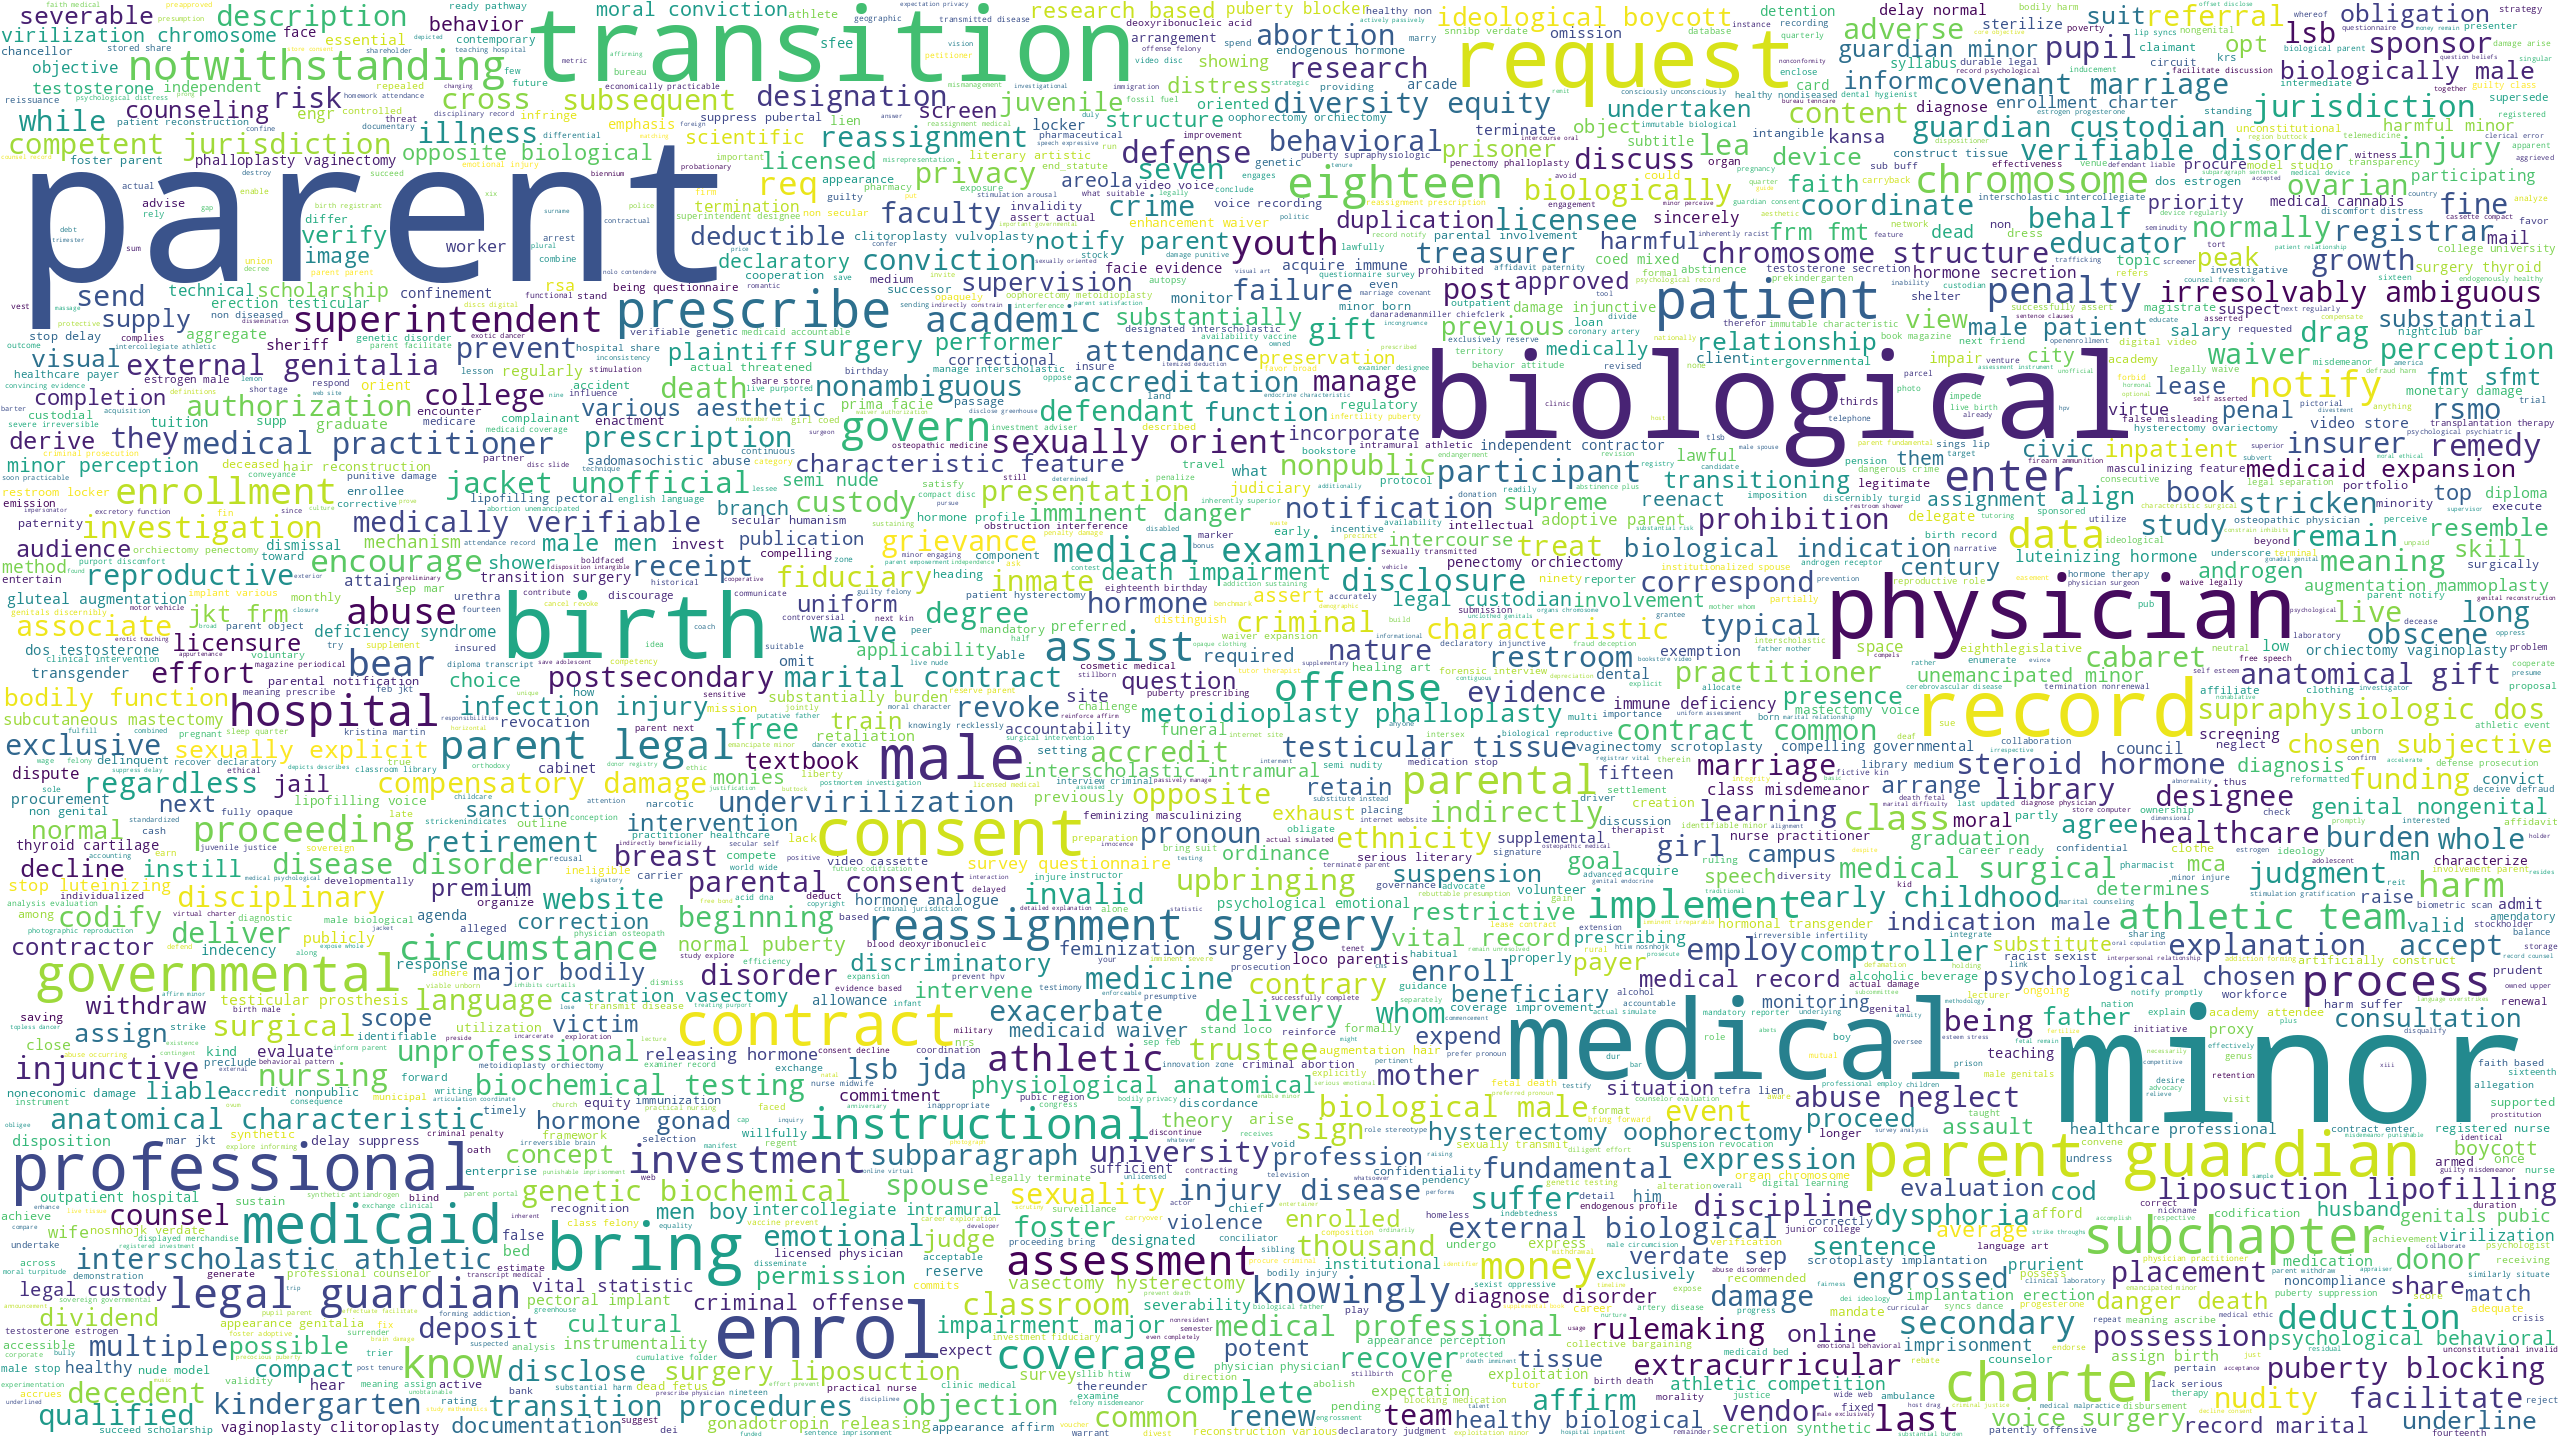
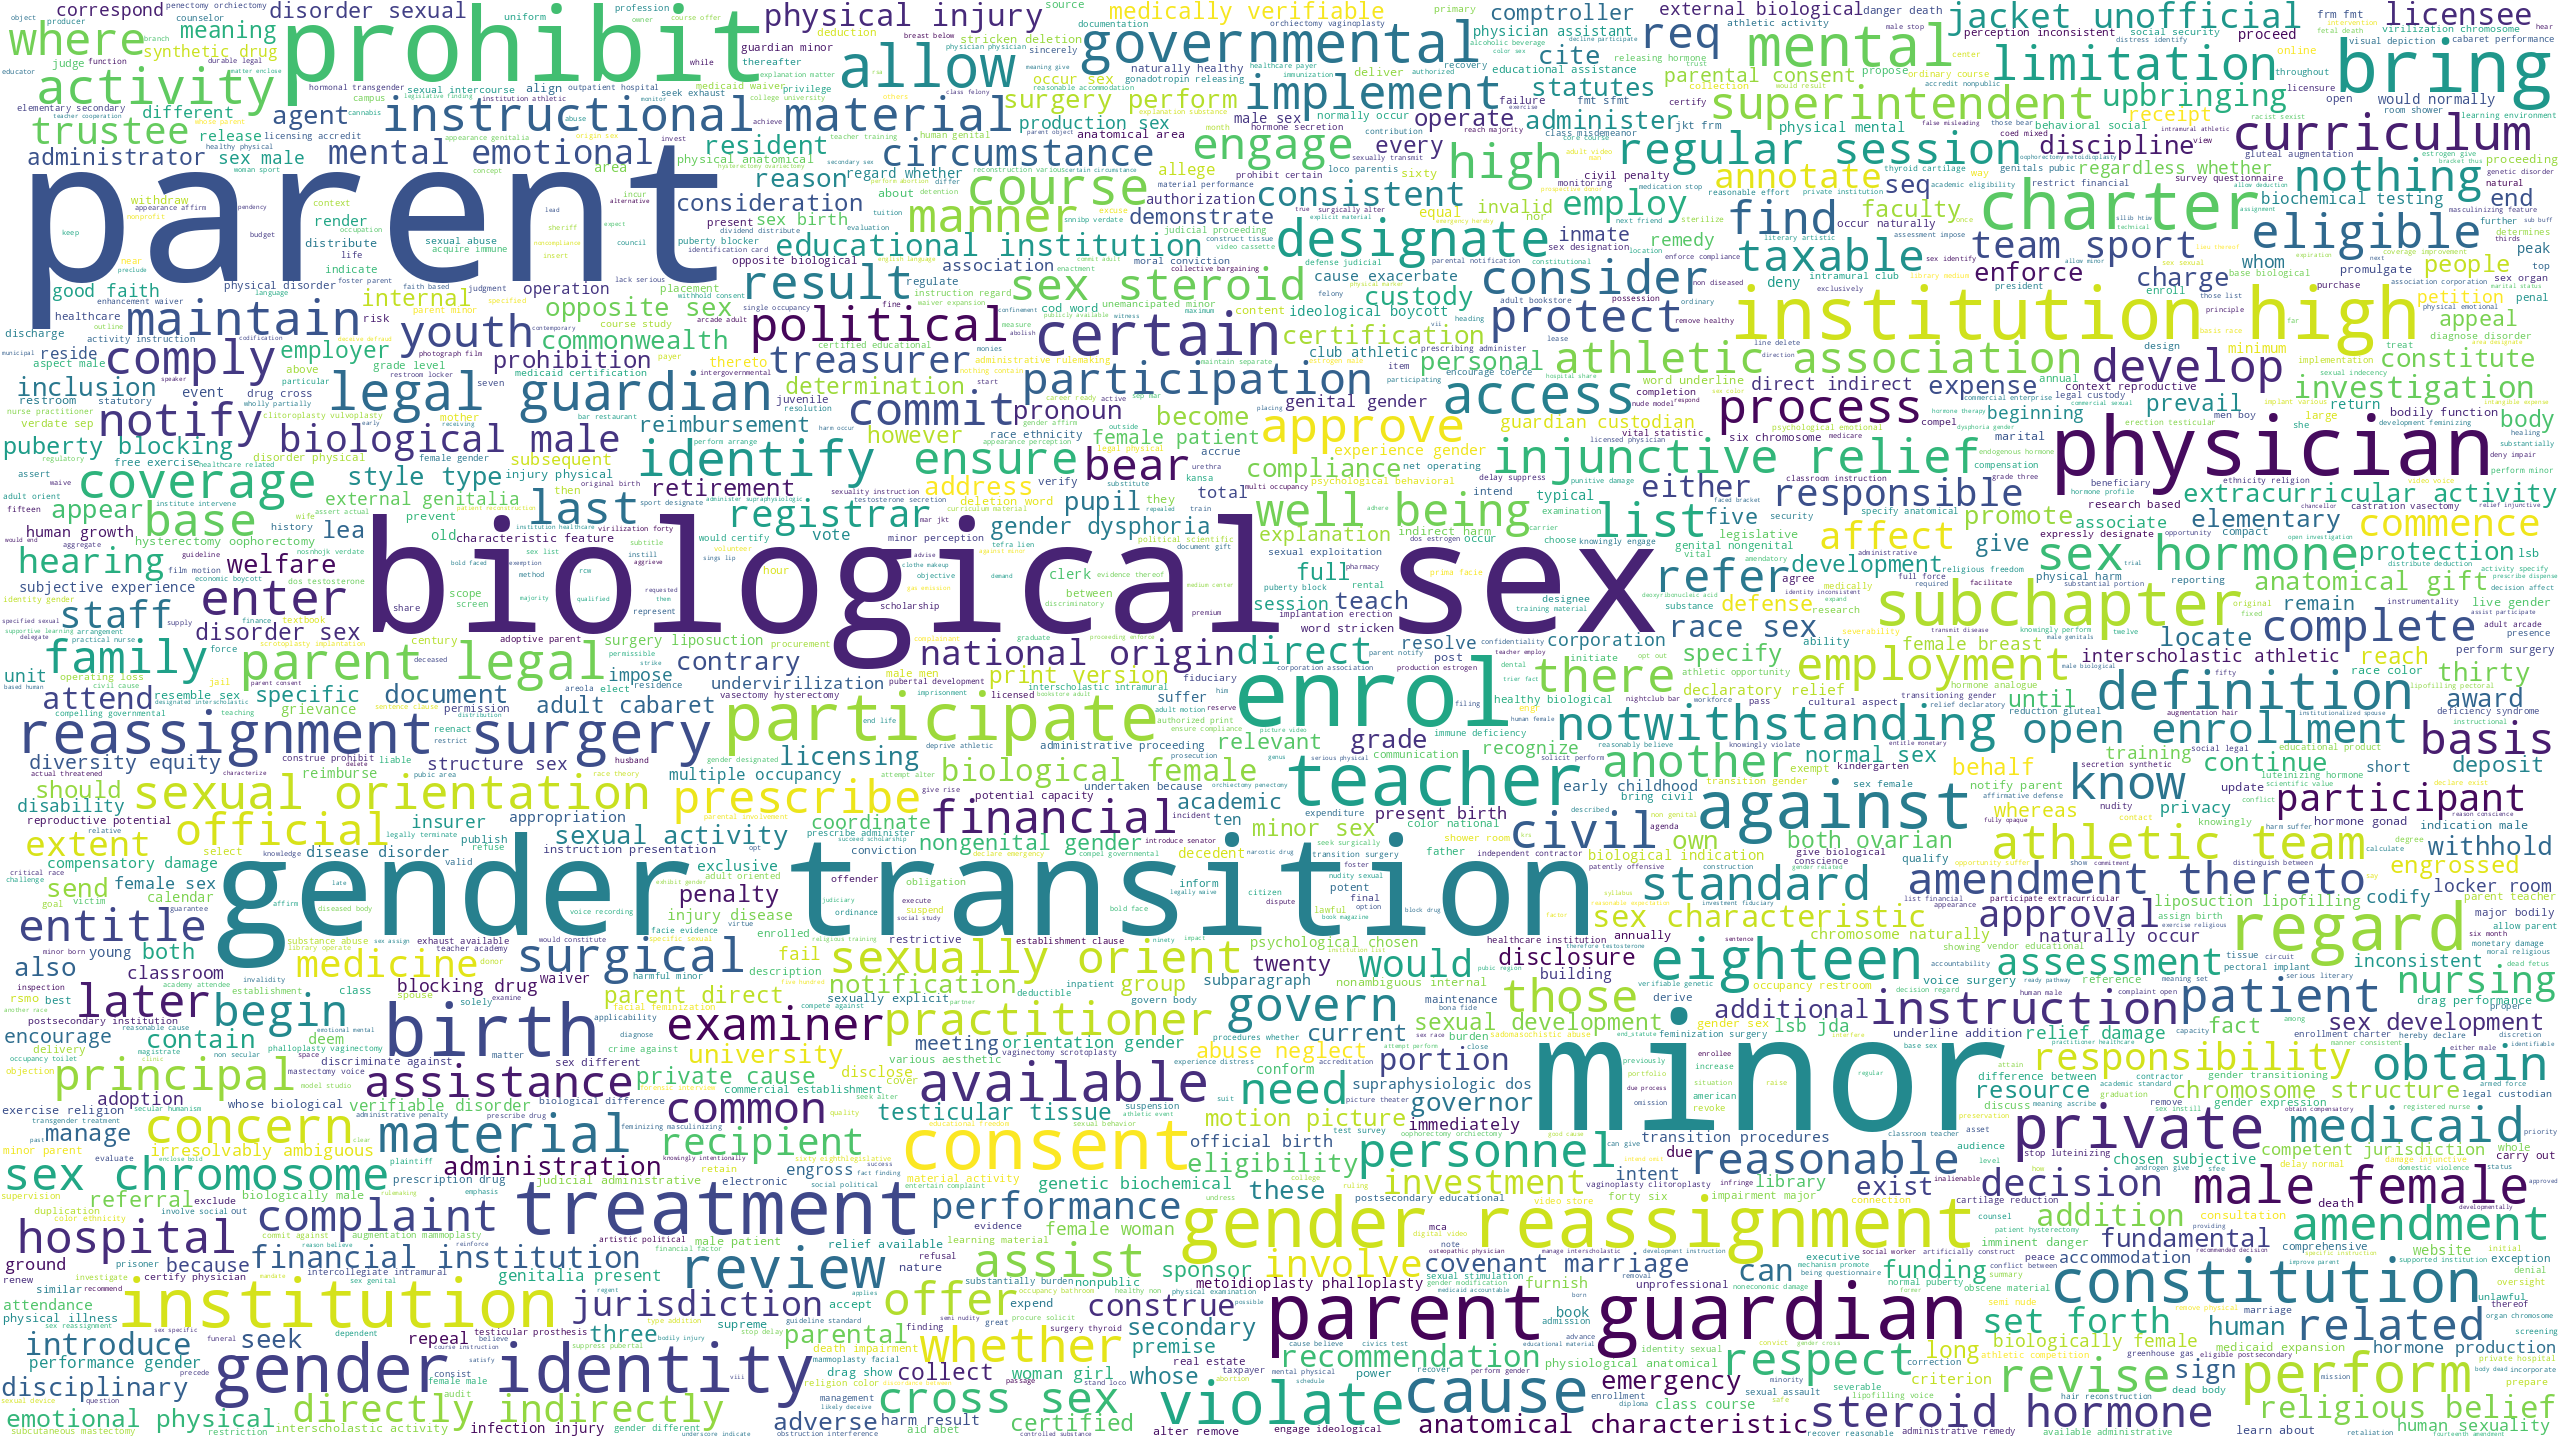
full legal stopwords

diff --git a/lib/tasks/prepare_legal_stopwords.py b/lib/tasks/prepare_legal_stopwords.py
@@ -1,6 +1,7 @@
 from typing import List
 
 from nltk import FreqDist
+import typer
 
 from lib.util import load_json, write_json
 
@@ -24,3 +25,14 @@ def prepare_legal_stopwords(
     write_json(stopwords, output_filename)
 
     return stopwords
+
+def main(
+    token_path: str,
+    output_filename: str,
+    min_frequency: int = typer.Option(800)
+):
+    """The CLI for this task"""
+    prepare_legal_stopwords(token_path, output_filename, min_frequency)
+
+if __name__ == "__main__":
+    typer.run(main)

diff --git a/lib/tasks/prepare_neutral_corpus.py b/lib/tasks/prepare_neutral_corpus.py
@@ -77,7 +77,7 @@ def main(
     summaries_path: str,
     aggregate_path: str,
     output_path: str,
-    num_bills: int = typer.Option(10),
+    num_bills: int = typer.Option(1000),
     random_state: int = typer.Option(1),
 ):
     """The CLI for this task"""
